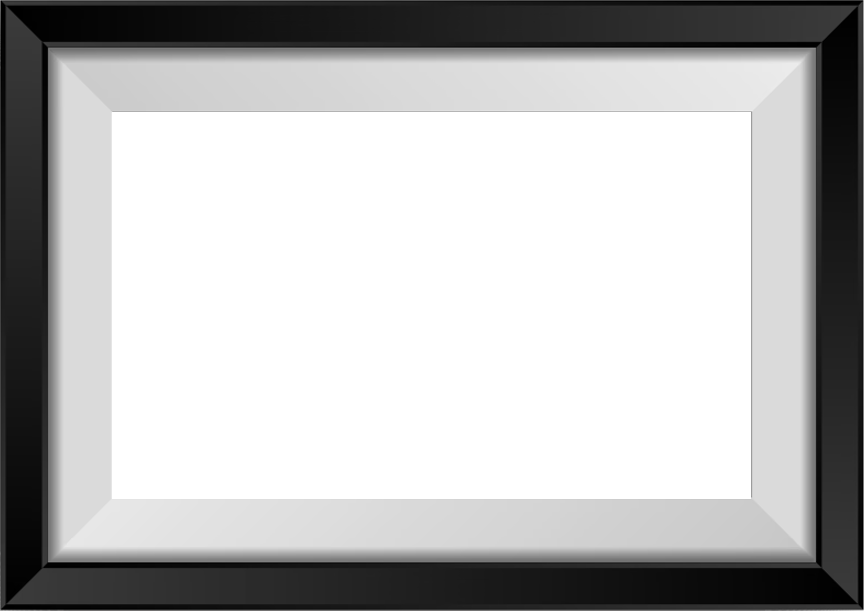
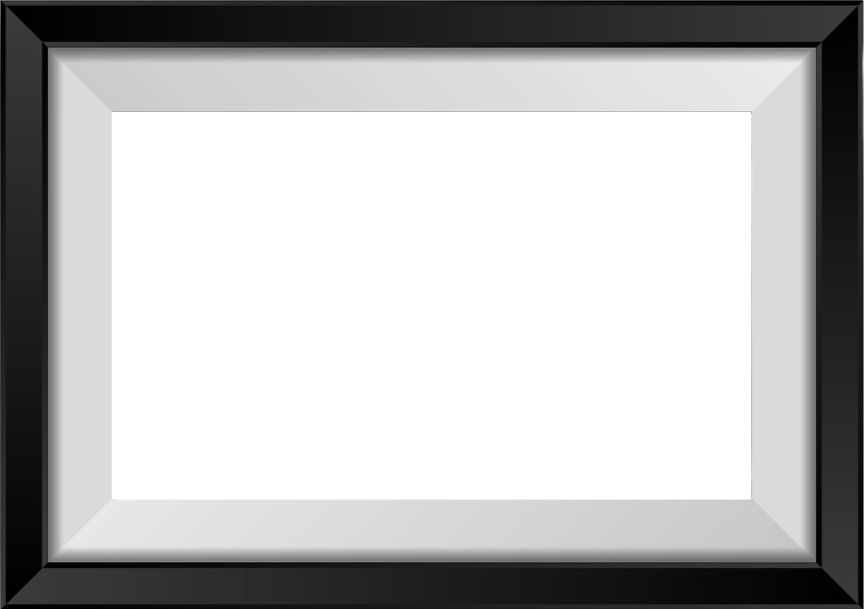
Add frame selection

diff --git a/picture_frame.py b/picture_frame.py
@@ -106,6 +106,14 @@ class PictureFrame(QtWidgets.QWidget):
         self.folder = Path("C:/Users/tomer.labin/Pictures/PictureFrame")
         self.folder.mkdir(parents=True, exist_ok=True)
 
+        # Frame images
+        self.frames_folder = Path(__file__).parent / "Frames"
+        self.frames = []
+        self.current_frame_index = 0
+        self.use_custom_frame = True
+        self.frame_photo_areas = {}  # Store calculated photo areas for each frame
+        self.load_frames()
+
         self.load_images()
 
         # Slideshow timer
@@ -141,6 +149,116 @@ class PictureFrame(QtWidgets.QWidget):
         self.images = sorted(files)
         self.index = 0
 
+    def load_frames(self):
+        """Load frame images from Frames folder"""
+        if not self.frames_folder.exists():
+            return
+        
+        exts = ("*.jpg", "*.jpeg", "*.png", "*.bmp")
+        files = []
+        for e in exts:
+            files.extend(glob.glob(str(self.frames_folder / e)))
+        
+        self.frames = sorted(files)
+        if not self.frames:
+            self.use_custom_frame = False
+        else:
+            # Calculate transparent area for each frame
+            for frame_path in self.frames:
+                self.calculate_frame_photo_area(frame_path)
+
+    def calculate_frame_photo_area(self, frame_path):
+        """Calculate the transparent/photo area in a frame image"""
+        try:
+            img = Image.open(frame_path)
+            img = img.convert("RGBA")
+            
+            # Get alpha channel
+            alpha = img.split()[-1]
+            bbox = alpha.getbbox()
+            
+            if bbox:
+                # Find the bounding box of non-transparent pixels (the frame)
+                # The transparent area is inside this
+                width, height = img.size
+                
+                # Scan for transparent region from all sides
+                import numpy as np
+                alpha_array = np.array(alpha)
+                
+                # Find rows and columns that are mostly transparent (alpha < 128)
+                transparent_threshold = 250
+                
+                # Find transparent rows (top and bottom)
+                row_transparency = np.mean(alpha_array < transparent_threshold, axis=1)
+                transparent_rows = np.where(row_transparency > 0.5)[0]
+                
+                if len(transparent_rows) > 0:
+                    top = transparent_rows[0]
+                    bottom = transparent_rows[-1]
+                else:
+                    top, bottom = 0, height
+                
+                # Find transparent columns (left and right)
+                col_transparency = np.mean(alpha_array < transparent_threshold, axis=0)
+                transparent_cols = np.where(col_transparency > 0.5)[0]
+                
+                if len(transparent_cols) > 0:
+                    left = transparent_cols[0]
+                    right = transparent_cols[-1]
+                else:
+                    left, right = 0, width
+                
+                # Store as ratio (0-1) of image dimensions
+                self.frame_photo_areas[frame_path] = {
+                    'left_ratio': left / width,
+                    'top_ratio': top / height,
+                    'width_ratio': (right - left) / width,
+                    'height_ratio': (bottom - top) / height
+                }
+            else:
+                # Fallback to 20% border
+                self.frame_photo_areas[frame_path] = {
+                    'left_ratio': 0.2,
+                    'top_ratio': 0.2,
+                    'width_ratio': 0.6,
+                    'height_ratio': 0.6
+                }
+        except Exception as e:
+            print(f"Error calculating frame area for {frame_path}: {e}")
+            # Fallback to 20% border
+            self.frame_photo_areas[frame_path] = {
+                'left_ratio': 0.2,
+                'top_ratio': 0.2,
+                'width_ratio': 0.6,
+                'height_ratio': 0.6
+            }
+
+    def get_current_frame_pixmap(self):
+        """Get the current frame image as a QPixmap"""
+        if not self.use_custom_frame or not self.frames:
+            return None
+        
+        frame_path = self.frames[self.current_frame_index]
+        try:
+            img = Image.open(frame_path)
+            img = img.convert("RGBA")
+            qimg = QtGui.QImage(img.tobytes("raw", "RGBA"), img.width, img.height, QtGui.QImage.Format_RGBA8888)
+            return QtGui.QPixmap.fromImage(qimg)
+        except Exception:
+            return None
+
+    def next_frame(self):
+        """Switch to next frame"""
+        if not self.frames:
+            return
+        self.current_frame_index = (self.current_frame_index + 1) % len(self.frames)
+        # Recalculate if area not yet calculated for this frame
+        current_frame = self.frames[self.current_frame_index]
+        if current_frame not in self.frame_photo_areas:
+            self.calculate_frame_photo_area(current_frame)
+        self.update()
+
     def next_image(self):
         if not self.images:
             return
@@ -167,56 +285,102 @@ class PictureFrame(QtWidgets.QWidget):
     def paintEvent(self, event):
         p = QtGui.QPainter(self)
         p.setRenderHint(QtGui.QPainter.Antialiasing, True)
+        p.setRenderHint(QtGui.QPainter.SmoothPixmapTransform, True)
 
-        rect = self.rect().adjusted(10, 10, -10, -10)
+        frame_pix = self.get_current_frame_pixmap()
+        
+        if frame_pix and self.use_custom_frame:
+            # Using custom frame image
+            # Scale frame to widget size
+            scaled_frame = frame_pix.scaled(self.size(), QtCore.Qt.KeepAspectRatio, QtCore.Qt.SmoothTransformation)
+            
+            # Center the frame
+            frame_x = (self.width() - scaled_frame.width()) // 2
+            frame_y = (self.height() - scaled_frame.height()) // 2
+            
+            # Get the calculated photo area for this frame
+            current_frame = self.frames[self.current_frame_index]
+            if current_frame in self.frame_photo_areas:
+                area = self.frame_photo_areas[current_frame]
+                photo_rect = QtCore.QRect(
+                    int(frame_x + scaled_frame.width() * area['left_ratio']),
+                    int(frame_y + scaled_frame.height() * area['top_ratio']),
+                    int(scaled_frame.width() * area['width_ratio']),
+                    int(scaled_frame.height() * area['height_ratio'])
+                )
+            else:
+                # Fallback to 20% border
+                border_ratio = 0.20
+                photo_rect = QtCore.QRect(
+                    int(frame_x + scaled_frame.width() * border_ratio),
+                    int(frame_y + scaled_frame.height() * border_ratio),
+                    int(scaled_frame.width() * (1 - 2 * border_ratio)),
+                    int(scaled_frame.height() * (1 - 2 * border_ratio))
+                )
+            
+            # Draw the photo first
+            pix = self.current_pixmap()
+            if pix:
+                scaled = pix.scaled(photo_rect.size(), QtCore.Qt.KeepAspectRatioByExpanding, QtCore.Qt.SmoothTransformation)
+                x = (scaled.width() - photo_rect.width()) // 2
+                y = (scaled.height() - photo_rect.height()) // 2
+                crop = scaled.copy(x, y, photo_rect.width(), photo_rect.height())
+                p.drawPixmap(photo_rect.topLeft(), crop)
+            
+            # Draw the frame on top
+            p.drawPixmap(frame_x, frame_y, scaled_frame)
+            
+        else:
+            # Original painted frame
+            rect = self.rect().adjusted(10, 10, -10, -10)
 
-        # Shadow
-        shadow_color = QtGui.QColor(0, 0, 0, 120)
-        p.setBrush(shadow_color)
-        p.setPen(QtCore.Qt.NoPen)
-        p.drawRoundedRect(rect.translated(6, 8), 20, 20)
+            # Shadow
+            shadow_color = QtGui.QColor(0, 0, 0, 120)
+            p.setBrush(shadow_color)
+            p.setPen(QtCore.Qt.NoPen)
+            p.drawRoundedRect(rect.translated(6, 8), 20, 20)
 
-        # Outer "wood" frame gradient
-        wood = QtGui.QLinearGradient(rect.topLeft(), rect.bottomRight())
-        wood.setColorAt(0.0, QtGui.QColor("#7A4B2A"))
-        wood.setColorAt(0.35, QtGui.QColor("#B07A46"))
-        wood.setColorAt(1.0, QtGui.QColor("#6A3F22"))
+            # Outer "wood" frame gradient
+            wood = QtGui.QLinearGradient(rect.topLeft(), rect.bottomRight())
+            wood.setColorAt(0.0, QtGui.QColor("#7A4B2A"))
+            wood.setColorAt(0.35, QtGui.QColor("#B07A46"))
+            wood.setColorAt(1.0, QtGui.QColor("#6A3F22"))
 
-        p.setBrush(wood)
-        p.setPen(QtCore.Qt.NoPen)
-        p.drawRoundedRect(rect, 20, 20)
+            p.setBrush(wood)
+            p.setPen(QtCore.Qt.NoPen)
+            p.drawRoundedRect(rect, 20, 20)
 
-        # Inner bevel
-        inner = rect.adjusted(16, 16, -16, -16)
-        bevel_pen = QtGui.QPen(QtGui.QColor(255, 255, 255, 80), 2)
-        p.setPen(bevel_pen)
-        p.setBrush(QtCore.Qt.NoBrush)
-        p.drawRoundedRect(inner, 14, 14)
+            # Inner bevel
+            inner = rect.adjusted(16, 16, -16, -16)
+            bevel_pen = QtGui.QPen(QtGui.QColor(255, 255, 255, 80), 2)
+            p.setPen(bevel_pen)
+            p.setBrush(QtCore.Qt.NoBrush)
+            p.drawRoundedRect(inner, 14, 14)
 
-        # Matte
-        matte = inner.adjusted(10, 10, -10, -10)
-        p.setPen(QtCore.Qt.NoPen)
-        p.setBrush(QtGui.QColor("#F2EFE6"))
-        p.drawRoundedRect(matte, 10, 10)
+            # Matte
+            matte = inner.adjusted(10, 10, -10, -10)
+            p.setPen(QtCore.Qt.NoPen)
+            p.setBrush(QtGui.QColor("#F2EFE6"))
+            p.drawRoundedRect(matte, 10, 10)
 
-        # Photo area
-        photo_rect = matte.adjusted(10, 10, -10, -10)
-        p.setBrush(QtGui.QColor("#111111"))
-        p.drawRoundedRect(photo_rect, 8, 8)
+            # Photo area
+            photo_rect = matte.adjusted(10, 10, -10, -10)
+            p.setBrush(QtGui.QColor("#111111"))
+            p.drawRoundedRect(photo_rect, 8, 8)
 
-        pix = self.current_pixmap()
-        if pix:
-            # Scale and crop to fill
-            scaled = pix.scaled(photo_rect.size(), QtCore.Qt.KeepAspectRatioByExpanding, QtCore.Qt.SmoothTransformation)
-            x = (scaled.width() - photo_rect.width()) // 2
-            y = (scaled.height() - photo_rect.height()) // 2
-            crop = scaled.copy(x, y, photo_rect.width(), photo_rect.height())
+            pix = self.current_pixmap()
+            if pix:
+                # Scale and crop to fill
+                scaled = pix.scaled(photo_rect.size(), QtCore.Qt.KeepAspectRatioByExpanding, QtCore.Qt.SmoothTransformation)
+                x = (scaled.width() - photo_rect.width()) // 2
+                y = (scaled.height() - photo_rect.height()) // 2
+                crop = scaled.copy(x, y, photo_rect.width(), photo_rect.height())
 
-            # Clip to rounded rect
-            path = QtGui.QPainterPath()
-            path.addRoundedRect(QtCore.QRectF(photo_rect), 8, 8)
-            p.setClipPath(path)
-            p.drawPixmap(photo_rect.topLeft(), crop)
+                # Clip to rounded rect
+                path = QtGui.QPainterPath()
+                path.addRoundedRect(QtCore.QRectF(photo_rect), 8, 8)
+                p.setClipPath(path)
+                p.drawPixmap(photo_rect.topLeft(), crop)
 
         # Resize grip
         grip_rect = QtCore.QRect(self.width() - 28, self.height() - 28, 18, 18)
@@ -275,6 +439,14 @@ class PictureFrame(QtWidgets.QWidget):
         act_folder = menu.addAction("Set pictures folder...")
 
         menu.addSeparator()
+        
+        # Frame options
+        if self.frames:
+            act_next_frame = menu.addAction("Next frame")
+            act_use_frame = menu.addAction("Use custom frame")
+            act_use_frame.setCheckable(True)
+            act_use_frame.setChecked(self.use_custom_frame)
+            menu.addSeparator()
 
         act_top = menu.addAction("Always on top")
         act_top.setCheckable(True)
@@ -301,6 +473,13 @@ class PictureFrame(QtWidgets.QWidget):
 
         if action == act_next:
             self.next_image()
+
+        elif self.frames and action == act_next_frame:
+            self.next_frame()
+        
+        elif self.frames and action == act_use_frame:
+            self.use_custom_frame = act_use_frame.isChecked()
+            self.update()
 
         elif action == act_folder:
             folder = QtWidgets.QFileDialog.getExistingDirectory(self, "Choose picture folder", str(self.folder))
